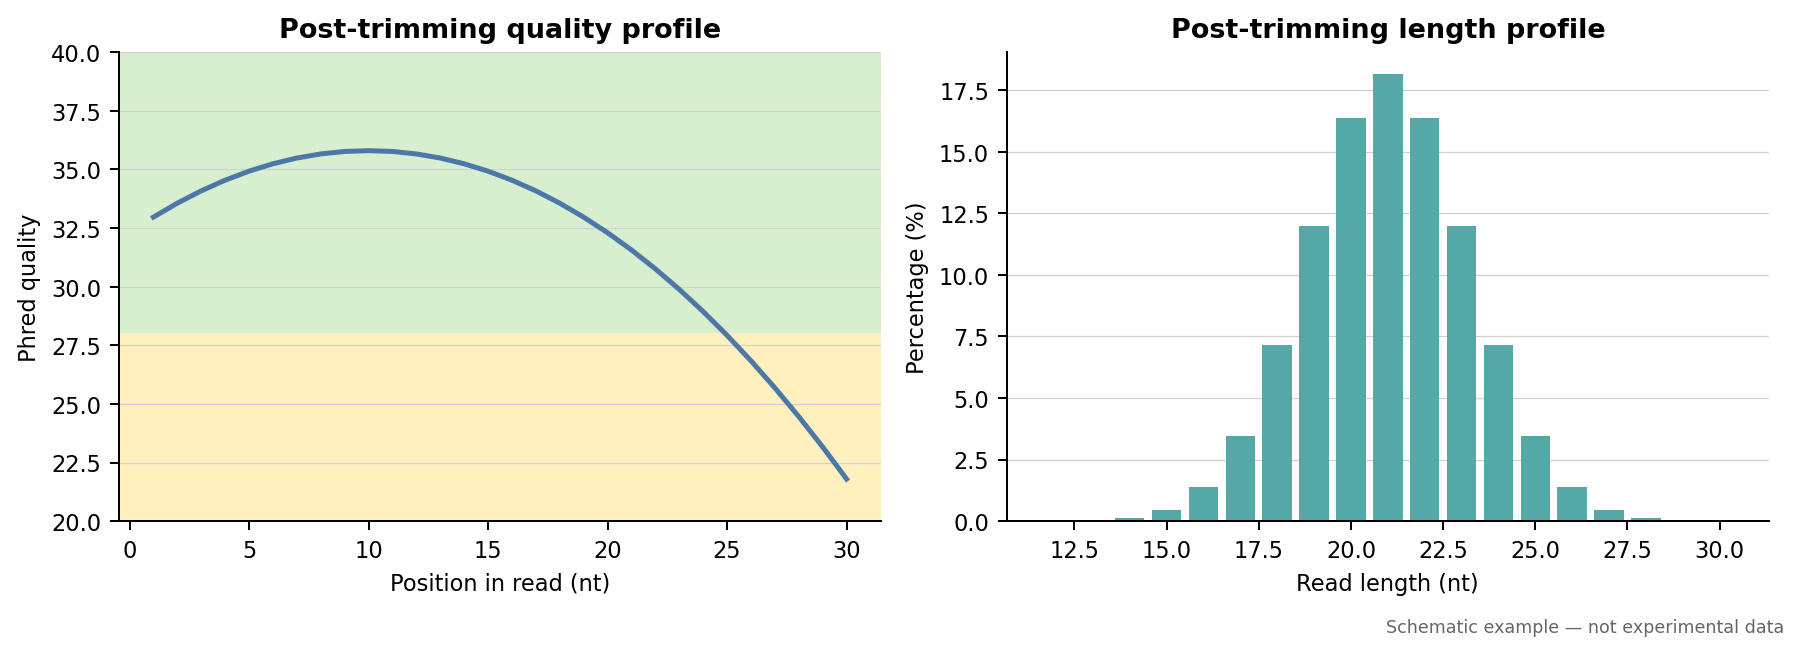
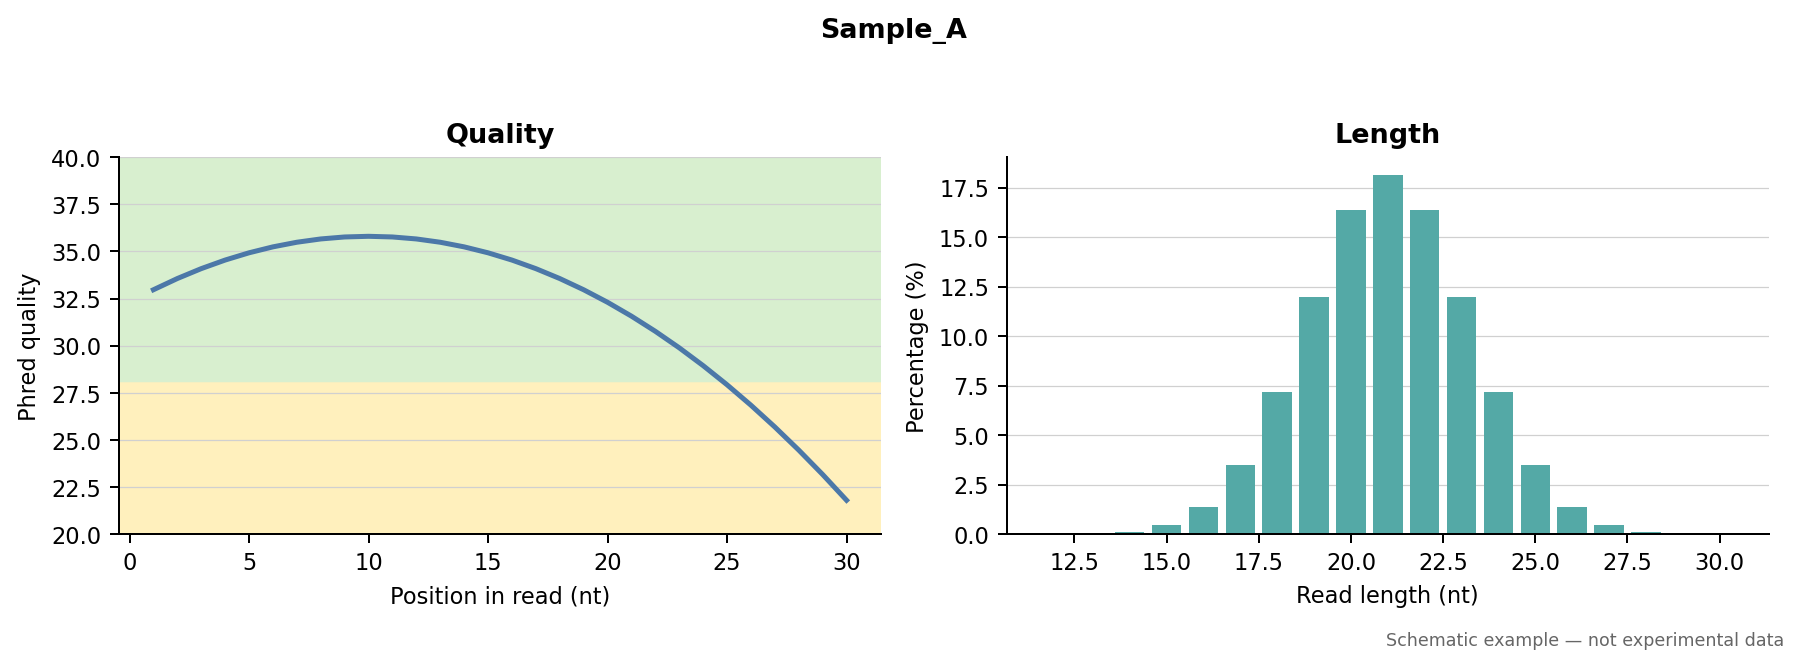
Simplify result plot titles

diff --git a/pipeline/length.py b/pipeline/length.py
@@ -79,8 +79,8 @@ def _write_workbook(path, total, read_lengths, gmc_lengths):
         sheet.column_dimensions["A"].width = 12
         sheet.column_dimensions["B"].width = 16
         sheet.column_dimensions["C"].width = 16
-    _add_excel_chart(summary_sheet, read_sheet, "Whole-read length distribution", "A5")
-    _add_excel_chart(summary_sheet, gmc_sheet, "5GMC length distribution", "A21")
+    _add_excel_chart(summary_sheet, read_sheet, "Whole reads", "A5")
+    _add_excel_chart(summary_sheet, gmc_sheet, "5GMC", "A21")
     summary_sheet.column_dimensions["A"].width = 54
     summary_sheet.column_dimensions["B"].width = 18
     workbook.save(path)
@@ -104,7 +104,7 @@ def _plot_distributions(path, sample, total, read_lengths, gmc_lengths):
         axis.grid(axis="y", color="#d0d0d0", linewidth=0.5, alpha=0.8)
         axis.set_axisbelow(True)
     axes[0].set_ylabel("Percentage of mapped miRNA reads (%)")
-    figure.suptitle(f"{sample} — read length distributions", fontweight="bold")
+    figure.suptitle(sample, fontweight="bold")
     figure.tight_layout(rect=(0, 0, 1, 0.94))
     figure.savefig(path, bbox_inches="tight")
     plt.close(figure)
@@ -115,15 +115,12 @@ def run_sample(item, config):
     sam_file = Path(config["remapping_dir"]) / sample / "merged-alignment-sorted.sam"
     output_file = Path(config["length_dir"]) / f"{sample}_len_dist.xlsx"
     plot_file = Path(config["length_dir"]) / "plots" / f"{sample}_length_distribution.pdf"
-    if config["resume"] and output_file.is_file() and plot_file.is_file():
-        logging.info("[%s] length distribution already complete; skipping", sample)
-        return
-    if config["resume"] and output_file.is_file() and not plot_file.is_file():
-        logging.info("[%s] length table exists; generating missing charts", sample)
+    if config["resume"] and output_file.is_file():
+        logging.info("[%s] length table exists; refreshing charts", sample)
         total, read_lengths, gmc_lengths = _read_existing_workbook(output_file)
         _write_workbook(output_file, total, read_lengths, gmc_lengths)
         _plot_distributions(plot_file, sample, total, read_lengths, gmc_lengths)
-        logging.info("[%s] length charts complete", sample)
+        logging.info("[%s] length charts refreshed", sample)
         return
     if config["dry_run"]:
         logging.info(

diff --git a/docs/generate_demo_figures.py b/docs/generate_demo_figures.py
@@ -53,14 +53,15 @@ def qc_example():
     axes[0].axhspan(28, 40, color="#d8efcf", zorder=-1)
     axes[0].axhspan(20, 28, color="#fff0bd", zorder=-1)
     axes[0].set(xlabel="Position in read (nt)", ylabel="Phred quality", ylim=(20, 40))
-    axes[0].set_title("Post-trimming quality profile", fontweight="bold")
+    axes[0].set_title("Quality", fontweight="bold")
     axes[1].bar(lengths, abundance, color="#54a9a6", width=0.8)
     axes[1].set(xlabel="Read length (nt)", ylabel="Percentage (%)")
-    axes[1].set_title("Post-trimming length profile", fontweight="bold")
+    axes[1].set_title("Length", fontweight="bold")
     for axis in axes:
         axis.grid(axis="y", color="#d0d0d0", linewidth=0.5)
         axis.set_axisbelow(True)
-    figure.tight_layout(rect=(0, 0.03, 1, 1))
+    figure.suptitle("Sample_A", fontweight="bold")
+    figure.tight_layout(rect=(0, 0.03, 1, 0.94))
     _finish(figure, "qc_example.png")
 
 
@@ -109,7 +110,7 @@ def length_example():
         axis.grid(axis="y", color="#d0d0d0", linewidth=0.5)
         axis.set_axisbelow(True)
     axes[0].set_ylabel("Percentage of mapped miRNA reads (%)")
-    figure.suptitle("Sample_A — read length distributions", fontweight="bold")
+    figure.suptitle("Sample_A", fontweight="bold")
     figure.tight_layout(rect=(0, 0.04, 1, 0.93))
     _finish(figure, "length_example.png")
 
@@ -163,7 +164,7 @@ def rnatype_example():
 
     figure, axes = plt.subplots(1, 2, figsize=(12.5, 4.8))
     for axis, labels, matrix, title in (
-        (axes[0], samples, overall, "Small-RNA type composition"),
+        (axes[0], samples, overall, None),
         (axes[1], lengths, by_length, "Sample_A"),
     ):
         bottom = np.zeros(matrix.shape[0])
@@ -175,7 +176,8 @@ def rnatype_example():
             handles.append(bars)
         axis.set_ylim(0, 100)
         axis.set_ylabel("Percentage (%)")
-        axis.set_title(title, fontweight="bold")
+        if title:
+            axis.set_title(title, fontweight="bold")
         axis.grid(axis="y", color="#d0d0d0", linewidth=0.5)
         axis.set_axisbelow(True)
     axes[1].set_xlabel("Read length (nt)")

diff --git a/pipeline/rnatype.py b/pipeline/rnatype.py
@@ -271,7 +271,6 @@ def _plot_overall(summary, output_base):
     axis.set_xlabel("")
     axis.set_ylim(0, 100)
     axis.tick_params(axis="x", labelrotation=90)
-    axis.set_title("Small-RNA type composition", fontweight="bold")
     handles, labels = axis.get_legend_handles_labels()
     axis.legend(
         handles[::-1], labels[::-1], title="RNA type",
